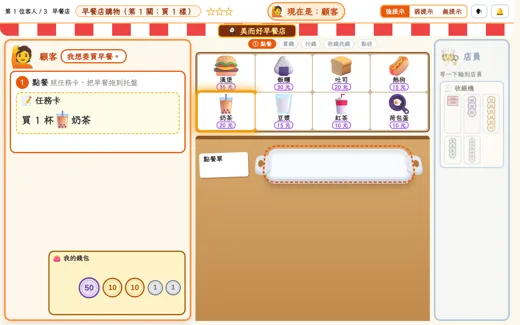
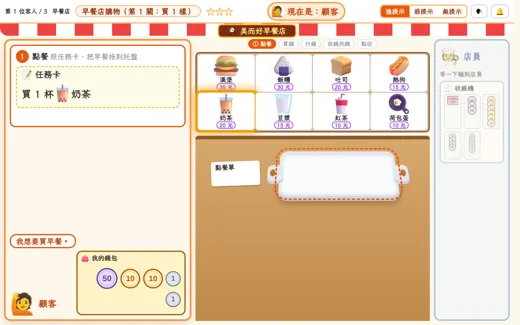
早餐店遊戲回饋第四輪：規劃文件＋縮圖
Claude-Session: https://claude.ai/code/session_011NSASYBWvdDhJFsSK2QUnf

diff --git a/docs/早餐店購物遊戲_規劃.md b/docs/早餐店購物遊戲_規劃.md
@@ -26,6 +26,7 @@
 | 流程改版（2026-11-09） | **拿掉「店員結帳＋兩人核對」**：顧客自己算一共多少、系統判斷引導 → 算對後交易區浮現 → 顧客付錢 → 換店員：店員的手收走錢、念「收您＃元」，剛好就收據，要找才算找錢、拿錢 → 換顧客點收。換人只剩 2 次。**第 1 關錢包的零錢一定湊得出剛好的金額**，一半機會多一張大錢（付大錢就要找錢）。收銀機大小固定，錢被拿走不縮 |
 | 找錢用直式（2026-11-09） | 店員找錢時開「算一算」視窗，**跑的就是互動學習單「兩位數加減直式計算」同一份程式**（操作、提示與互動頁完全相同，強／弱／無跟著遊戲），算完答案自動填回。互動頁直式只支援兩位數減兩位數，所以**第 1 關菜單不放茶葉蛋（8 元）、錢包總額 ≤ 99 元**（使用者選「遊戲配合」；要做 100 元找錢時再擴充互動頁直式）。第 1 關算錢只買 1 樣，不開直式；第 2、3 關的加法、乘法之後用同樣方式接 |
 | 使用者回饋第三輪（2026-11-09） | 錢包大小固定（錢多錢少都一樣）；拿掉顧客付錢的手部動畫；找錢動畫改成「手抓著錢從上方放到盤子上 → 往前推 → 手往上、往後離開」；托盤樣式出模擬圖 `mock-breakfast-shop/G_托盤樣式.png`（甲木頭／乙速食店塑膠＋紙墊／丙有耳朵圓角／丁斜看立體）→ **使用者選丙＋丁**（有耳朵的圓角托盤、斜看立體）；店員的手加前臂與袖子 |
+| 使用者回饋第四輪（2026-11-09） | 顧客移到左下角（對話框在上、頭像左下、錢包右下）；顧客九宮格靠右；托盤左右縮短、前後加深，付錢／找錢框加高；「付好了」改「確認」；**兩側各有暫放區**（顧客「要付的錢」、店員「要找的錢」），錢先放暫放區，按「確認」才放到中央（付錢＝錢飛過去；找錢＝手抓著錢放下再推） |
 | 付太多 | 付的錢比總價多也算對，照樣找錢；強提示多問「有沒有剛好的付法？」 |
 | 菜單（2026-11-08 定案） | 蛋餅 25（份）、漢堡 35（個）、三明治 30（個）、鐵板麵 45（份）、飯糰 30（個）、吐司 20（片）、熱狗 15（根）、奶茶 20、豆漿 15、紅茶 10（杯）、茶葉蛋 8（顆）、荷包蛋 10（個）。開放圖示沒有蘿蔔糕、薯餅，改成飯糰、熱狗，並加吐司、荷包蛋。茶葉蛋 8 元低於圖庫 d2 下限 10，刻意保留（要用到 1、5 元硬幣），管理端改價會被驗證擋 |
 
